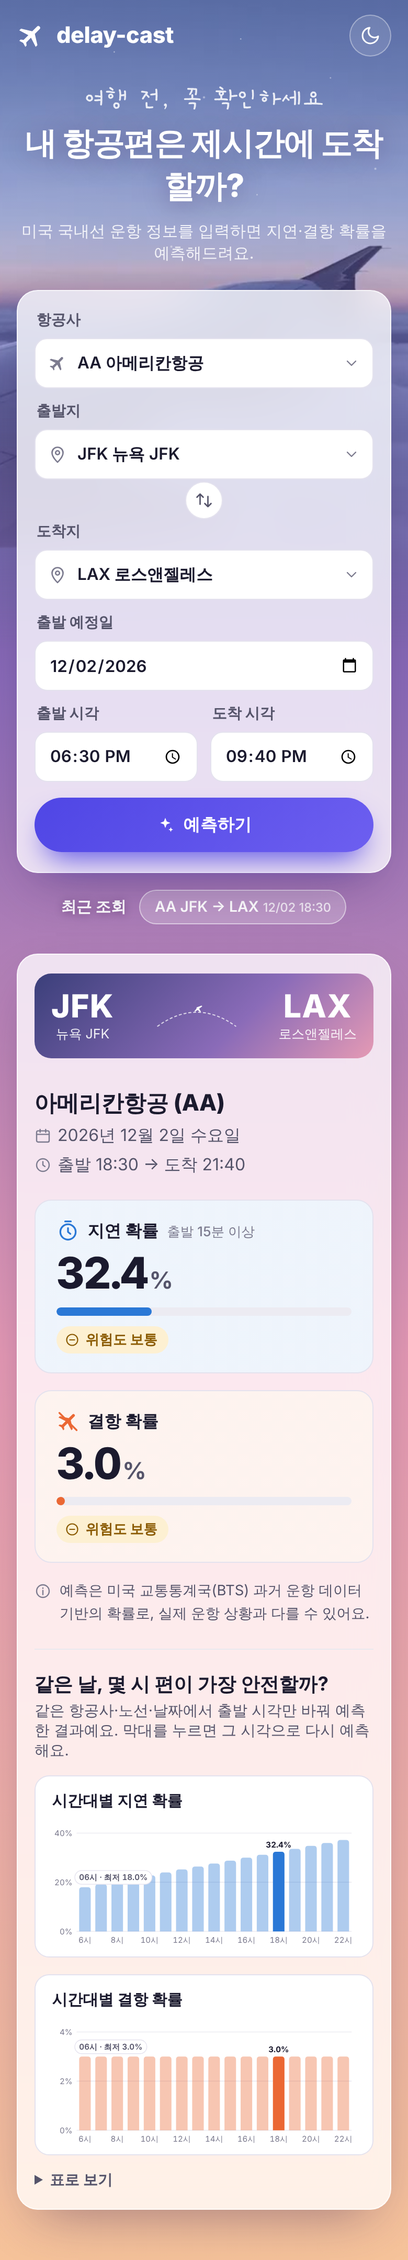
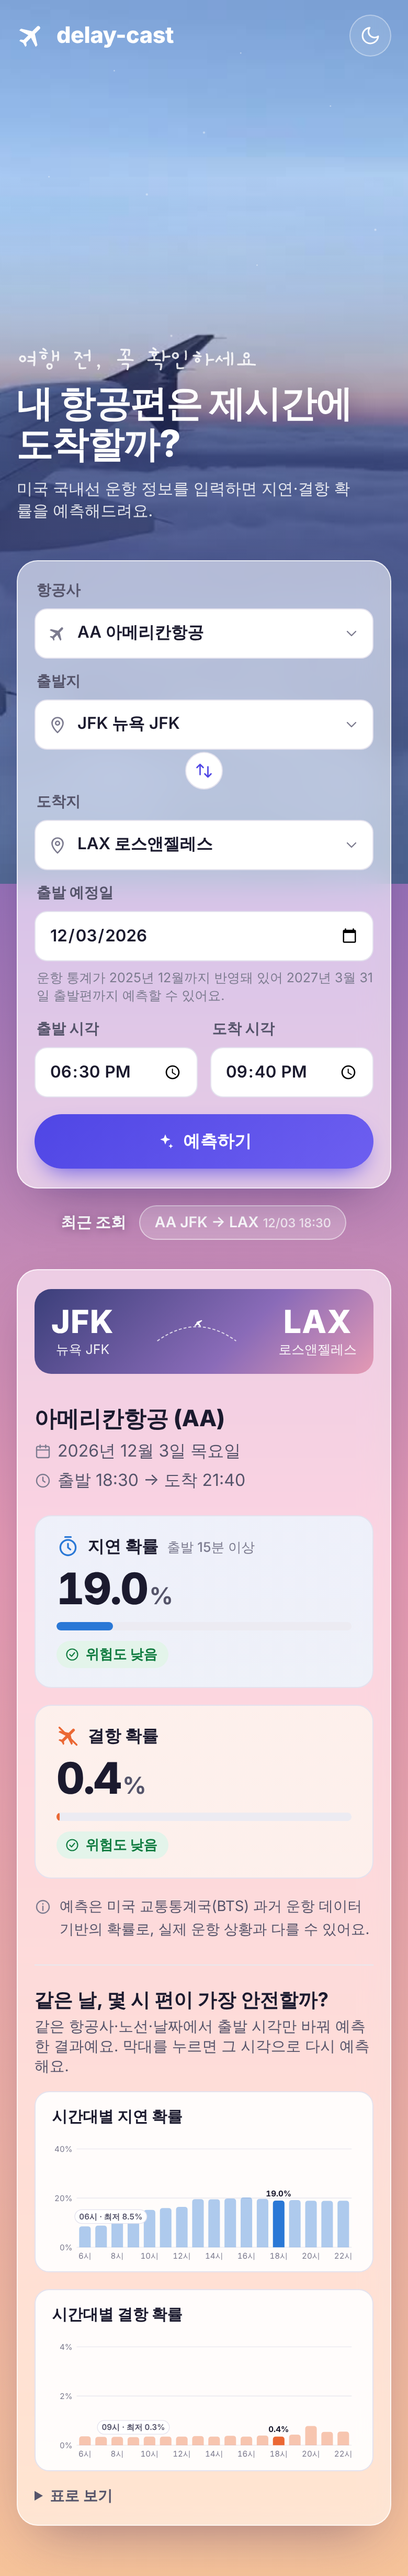
Make the flight video the hero and keep it behind the page
The background video was mostly hidden: a 55% purple overlay on top,
its lower half masked out, the form over the wing, and only the top
620px of the page.

- The video now covers the whole viewport and stays fixed while the
  page scrolls. The first screen gives most of its height to the
  video, with a large left-aligned headline at its foot and the
  search form below it.
- A sky-coloured veil (.sky-veil) fades in with scroll (--scrolled,
  set in app.js), so result cards read clearly while clouds still
  show around them. Glass panels and result cards are slightly
  translucent.
- On narrow screens the video shifts so the wing clears the
  headline, and the headline sits on a bottom scrim.
- Dropdowns that open below the fold scroll into view.

Claude-Session: https://claude.ai/code/session_016JjTxk6fsWy6dGfjNn2Z3X

diff --git a/app/static/style.css b/app/static/style.css
@@ -14,6 +14,7 @@
   --field: #ffffff;
   --field-border: #e4e2ee;
   --surface-1: #ffffff;
+  --card: color-mix(in srgb, var(--surface-1) 90%, transparent);  /* 결과 안 카드: 뒤 배경이 아주 살짝 비친다 */
   --grid: #e9e8ef;
 
   --text-primary: #1b1a2e;
@@ -87,24 +88,27 @@ svg { width: 1em; height: 1em; fill: none; stroke: currentColor; stroke-width: 1
 button, input { font: inherit; color: inherit; }
 :focus-visible { outline: 2px solid var(--focus); outline-offset: 2px; }
 
-/* 하늘: 비행 영상 위에 하늘색 덮개(흰 제목 대비용). 다크 모드는 영상을 어둡게 하고 별을 띄운다 */
-.sky { position: absolute; top: 0; left: 0; right: 0; height: 620px; pointer-events: none; overflow: hidden; z-index: 0; }
-.sky-video {
-  position: absolute; inset: 0; width: 100%; height: 100%; object-fit: cover; object-position: center top;
-  -webkit-mask-image: linear-gradient(#000 50%, transparent); mask-image: linear-gradient(#000 50%, transparent);
-}
-.sky::before, .sky::after { content: ""; position: absolute; inset: 0; z-index: 1; }
+/* 하늘: 화면 전체에 고정된 비행 영상. 첫 화면은 제목 쪽(왼쪽)만 어둡게 하고,
+   스크롤하면 --scrolled(0~1, app.js)만큼 하늘색 덮개(.sky-veil)가 짙어져 결과 카드가 잘 읽힌다.
+   다크 모드는 영상을 어둡게 하고 별을 띄운다 */
+.sky { position: fixed; inset: 0; pointer-events: none; overflow: hidden; z-index: 0; }
+.sky-video { position: absolute; inset: 0; width: 100%; height: 100%; object-fit: cover; object-position: center 30%; }
+.sky::before, .sky::after, .sky-veil { content: ""; position: absolute; inset: 0; z-index: 1; }
 .sky::before {
-  background: linear-gradient(180deg,
-    color-mix(in srgb, var(--sky-1) 55%, transparent),
-    color-mix(in srgb, var(--sky-2) 35%, transparent) 55%, transparent);
+  background:
+    linear-gradient(90deg, color-mix(in srgb, var(--sky-1) 50%, transparent), transparent 55%),
+    linear-gradient(180deg, color-mix(in srgb, var(--sky-1) 18%, transparent), transparent 30%);
+}
+.sky-veil {
+  background: linear-gradient(180deg, color-mix(in srgb, var(--sky-2) 55%, transparent), color-mix(in srgb, var(--sky-3) 70%, transparent));
+  opacity: calc(var(--scrolled, 0) * .75);
 }
 .sky::after { background: radial-gradient(1px 1px at 12% 20%, #fff, transparent), radial-gradient(1px 1px at 28% 8%, #fff, transparent), radial-gradient(1.5px 1.5px at 50% 15%, #fff, transparent), radial-gradient(1px 1px at 63% 30%, #fff, transparent), radial-gradient(1px 1px at 81% 12%, #fff, transparent), radial-gradient(1px 1px at 20% 45%, #fff, transparent), radial-gradient(1.5px 1.5px at 42% 38%, #fff, transparent), radial-gradient(1.5px 1.5px at 36% 22%, #fff, transparent), radial-gradient(1px 1px at 59% 6%, #fff, transparent), radial-gradient(1.5px 1.5px at 92% 26%, #fff, transparent); opacity: 0; }
 @media (prefers-color-scheme: dark) {
-  :root:not([data-theme="light"]) .sky-video { filter: brightness(.45) saturate(.7); }
+  :root:not([data-theme="light"]) .sky-video { filter: brightness(.6) saturate(.85); }
   :root:not([data-theme="light"]) .sky::after { animation: twinkle 4s ease-in-out infinite alternate; }
 }
-:root[data-theme="dark"] .sky-video { filter: brightness(.45) saturate(.7); }
+:root[data-theme="dark"] .sky-video { filter: brightness(.6) saturate(.85); }
 :root[data-theme="dark"] .sky::after { animation: twinkle 4s ease-in-out infinite alternate; }
 @keyframes twinkle { from { opacity: .3; } to { opacity: .8; } }
 @media (prefers-reduced-motion: reduce) {
@@ -137,18 +141,22 @@ button, input { font: inherit; color: inherit; }
 /* ───────── Layout ───────── */
 main { position: relative; z-index: 1; max-width: 1280px; margin: 0 auto; padding: 8px 24px 64px; }
 
-.hero { text-align: center; color: var(--ink-on-sky); margin: 28px 0 36px; }
+/* 첫 화면의 위쪽 대부분을 영상에 내주고, 제목은 그 아래쪽에 왼쪽 정렬로 둔다 */
+.hero {
+  min-height: min(58vh, 560px); margin: 0 0 28px; padding-bottom: 8px; color: var(--ink-on-sky);
+  display: flex; flex-direction: column; justify-content: flex-end;
+}
 .hero-script { font-family: "Gaegu", cursive; font-size: clamp(1.6rem, 3.4vw, 2.2rem); margin: 0; color: var(--ink-on-sky-2); }
-.hero h1 { font-size: clamp(1.9rem, 5vw, 3.4rem); font-weight: 800; letter-spacing: -0.03em; margin: 6px 0 12px; text-shadow: 0 2px 24px rgba(40, 10, 60, .35); }
-.hero-sub { margin: 0; color: var(--ink-on-sky-2); font-size: clamp(.95rem, 1.6vw, 1.1rem); }
+.hero h1 { font-size: clamp(2.2rem, 5.6vw, 4rem); max-width: 14ch; line-height: 1.12; font-weight: 800; letter-spacing: -0.03em; margin: 6px 0 12px; text-shadow: 0 2px 24px rgba(40, 10, 60, .35); }
+.hero-sub { margin: 0; max-width: 34ch; color: var(--ink-on-sky-2); font-size: clamp(.95rem, 1.6vw, 1.1rem); }
 
 .glass {
-  background: var(--glass);
+  background: color-mix(in srgb, var(--glass) 76%, transparent);
   border: 1px solid var(--glass-border);
   border-radius: var(--radius);
   box-shadow: var(--shadow);
-  backdrop-filter: blur(18px) saturate(1.2);
-  -webkit-backdrop-filter: blur(18px) saturate(1.2);
+  backdrop-filter: blur(14px) saturate(1.3);
+  -webkit-backdrop-filter: blur(14px) saturate(1.3);
 }
 
 /* ───────── Search form ───────── */
@@ -270,9 +278,9 @@ main { position: relative; z-index: 1; max-width: 1280px; margin: 0 auto; paddin
 @media (max-width: 640px) { .when .sep { display: none; } .when { column-gap: 14px; } }
 
 .metrics { display: grid; grid-template-columns: 1fr 1fr minmax(180px, .8fr); gap: 16px; align-items: stretch; }
-.metric { border-radius: 16px; padding: 18px 20px; background: var(--surface-1); border: 1px solid var(--field-border); display: grid; gap: 10px; align-content: start; }
-.metric[data-kind="delay"] { background: linear-gradient(var(--tint-delay), var(--tint-delay)), var(--surface-1); }
-.metric[data-kind="cancel"] { background: linear-gradient(var(--tint-cancel), var(--tint-cancel)), var(--surface-1); }
+.metric { border-radius: 16px; padding: 18px 20px; background: var(--card); border: 1px solid var(--field-border); display: grid; gap: 10px; align-content: start; }
+.metric[data-kind="delay"] { background: linear-gradient(var(--tint-delay), var(--tint-delay)), var(--card); }
+.metric[data-kind="cancel"] { background: linear-gradient(var(--tint-cancel), var(--tint-cancel)), var(--card); }
 .metric header { display: flex; align-items: center; gap: 8px; }
 .metric header svg { width: 22px; height: 22px; }
 .metric[data-kind="delay"] header svg { color: var(--series-delay); }
@@ -300,7 +308,7 @@ main { position: relative; z-index: 1; max-width: 1280px; margin: 0 auto; paddin
 .hourly-head h2 { margin: 0; font-size: 1.15rem; }
 .hourly-head p { margin: 4px 0 0; color: var(--text-secondary); font-size: .9rem; }
 .charts { display: grid; grid-template-columns: 1fr 1fr; gap: 16px; }
-.chart { margin: 0; padding: 14px 16px 8px; border-radius: 14px; background: var(--surface-1); border: 1px solid var(--field-border); }
+.chart { margin: 0; padding: 14px 16px 8px; border-radius: 14px; background: var(--card); border: 1px solid var(--field-border); }
 .chart figcaption { font-weight: 700; font-size: .92rem; margin-bottom: 6px; display: flex; align-items: center; gap: 8px; }
 .chart-body svg { width: 100%; height: auto; display: block; overflow: visible; stroke: none; }
 .chart-body .gridline { stroke: var(--grid); stroke-width: 1; }
@@ -345,7 +353,10 @@ main { position: relative; z-index: 1; max-width: 1280px; margin: 0 auto; paddin
 @media (max-width: 640px) {
   .topbar { padding: 14px 16px; }
   main { padding: 0 16px 48px; }
-  .hero { margin: 12px 0 24px; }
+  .hero { min-height: 52vh; }
+  /* 좁은 화면에서는 날개를 제목 오른쪽 뒤로 비키고, 제목 뒤에 아래쪽 덮개를 깐다 */
+  .sky-video { object-position: 70% 30%; }
+  .sky::before { background: linear-gradient(180deg, transparent 20%, color-mix(in srgb, var(--sky-1) 62%, transparent) 62%, transparent 95%); }
   .search { padding: 18px 16px; gap: 12px; }
   .route { grid-template-columns: 1fr; }
   .swap { margin: -4px auto; transform: rotate(90deg); }

diff --git a/app/static/app.js b/app/static/app.js
@@ -122,6 +122,8 @@ class Combo {
     this.root.dataset.open = "";
     this.input.setAttribute("aria-expanded", "true");
     this.scrollActive();
+    // 폼이 첫 화면 아래쪽에 있어 목록이 화면 밖으로 펼쳐지면, 목록이 다 보이도록 페이지를 올린다
+    if (this.list.getBoundingClientRect().bottom > innerHeight) this.list.scrollIntoView({ block: "nearest", behavior: "smooth" });
   }
 
   close() {
@@ -504,5 +506,14 @@ async function init() {
 }
 
 if (!matchMedia("(prefers-reduced-motion: reduce)").matches) $("sky-video").play().catch(() => {});
+
+// 스크롤한 정도(첫 화면 높이의 80%까지를 0~1)를 CSS 에 넘겨 배경 덮개(.sky-veil)를 짙게 한다
+let scrollFrame = 0;
+addEventListener("scroll", () => {
+  cancelAnimationFrame(scrollFrame);
+  scrollFrame = requestAnimationFrame(() => {
+    document.documentElement.style.setProperty("--scrolled", Math.min(scrollY / (innerHeight * 0.8), 1).toFixed(3));
+  });
+}, { passive: true });
 
 init();

diff --git a/app/static/index.html b/app/static/index.html
@@ -19,6 +19,7 @@
     <video class="sky-video" id="sky-video" muted loop playsinline preload="auto" poster="/static/video/sky-loop-poster.jpg">
       <source src="/static/video/sky-loop.mp4" type="video/mp4">
     </video>
+    <div class="sky-veil"></div>
   </div>
 
   <header class="topbar">
